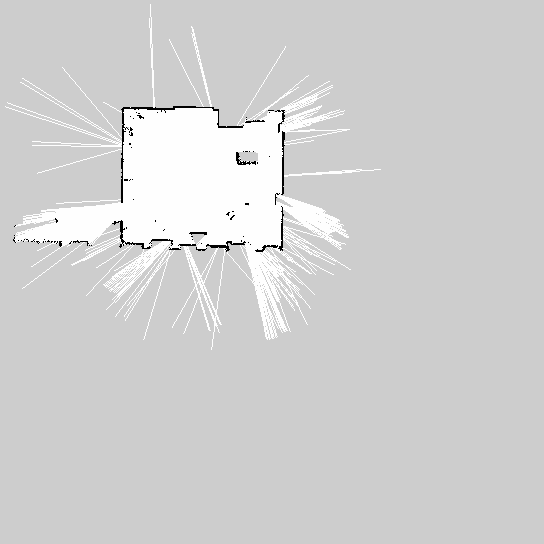
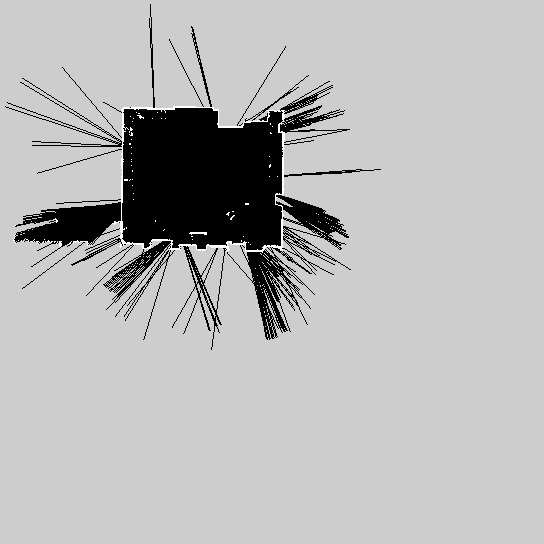
a few bugfixes

diff --git a/baker_office_cleaning_application/scripts/test_room_exploration.py b/baker_office_cleaning_application/scripts/test_room_exploration.py
@@ -38,7 +38,7 @@ class SeqControl():
 			self.map_data = get_map()
 		except rospy.ServiceException, e:
 			print "Service call failed: %s" % e
-		print "Map received."
+		print "Map received with resolution: ", self.map_data.map_resolution, "   and origin: ", self.map_data.map_origin
 		
 		# compute map division into rooms
 		# todo:
@@ -71,8 +71,8 @@ class SeqControl():
 		move_base_path_goal = MoveBasePathGoal()
 		move_base_path_goal.target_poses = exploration_result.coverage_path_pose_stamped
 		move_base_path_goal.path_tolerance = 0.2 #0.1
-		move_base_path_goal.goal_position_tolerance = 0.25 #0.1
-		move_base_path_goal.goal_angle_tolerance = 0.7 #0.087
+		move_base_path_goal.goal_position_tolerance = 0.5 #0.25 #0.1
+		move_base_path_goal.goal_angle_tolerance = 3.14 #0.7 #0.087
 		print "Waiting for action 'move_base_path' to become available ..."
 		move_base_path = actionlib.SimpleActionClient('/move_base_path', MoveBasePathAction)
 		move_base_path.wait_for_server()

diff --git a/baker_office_cleaning_application/src/map_management_client.cpp b/baker_office_cleaning_application/src/map_management_client.cpp
@@ -54,7 +54,8 @@ protected:
 		map_header_ = map_msg_data->header;
 		map_resolution_ = map_msg_data->info.resolution;
 		map_origin_ = map_msg_data->info.origin;
-		ROS_INFO_STREAM("MapManagementClient::mapDataCallback: map resolution: " << map_msg_data->info.resolution);
+		ROS_INFO_STREAM("MapManagementClient::mapDataCallback: map resolution: " << map_msg_data->info.resolution
+				<< "    map_origin: (" << map_origin_.position.x << ", " << map_origin_.position.y << ")");
 
 		// create original map
 		map_ = 255 * cv::Mat::ones(map_msg_data->info.height, map_msg_data->info.width, CV_8UC1);
@@ -67,7 +68,7 @@ protected:
 			}
 		}
 		cv::Mat temp = map_;
-		cv::flip(temp, map_, 0);
+		//cv::flip(temp, map_, 0);
 //		cv::imshow("map", map_);
 //		cv::waitKey();
 
